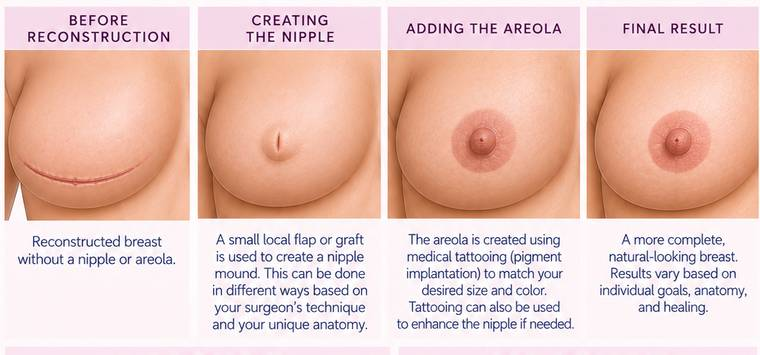
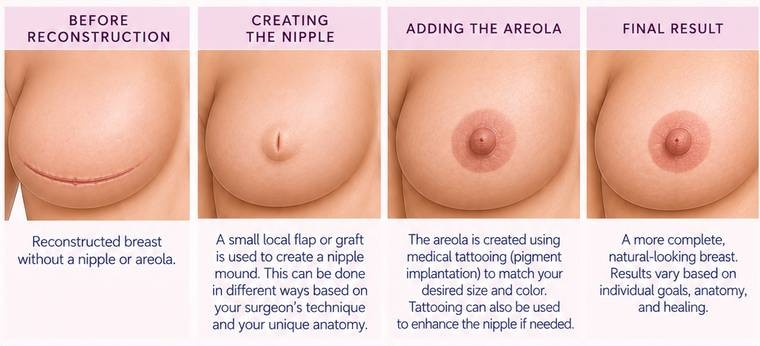
Trim a clipped header bar off the bottom of the nipple-areola diagram
The crop stopped nine rows into the next row of panels, so the image
ended on a sliver of pink header bar with nothing above it. Rows 346
onward were 97-98% bar colour; the picture itself ends at 345.

Found by the in-image audit rather than by looking, which is the point
of measuring: at display size the strip is about five pixels and reads
as a slightly odd edge rather than as a mistake.

diff --git a/index.html b/index.html
@@ -2265,7 +2265,7 @@
           <button type="button" class="recon-back" data-panel="panel-recon">&lsaquo; All options</button>
           <h2>Nipple-Areola Reconstruction</h2>
           <div class="recon-art">
-            <img src="images/recon-nippleareola.jpg" alt="Four stages: the reconstructed breast without a nipple, the nipple mound created, the areola added by tattooing, and the final result" loading="lazy" width="760" height="355" />
+            <img src="images/recon-nippleareola.jpg" alt="Four stages: the reconstructed breast without a nipple, the nipple mound created, the areola added by tattooing, and the final result" loading="lazy" width="760" height="346" />
           </div>
           <p class="recon-body">Usually the last step, once the chest has healed and the breast mound has settled into position. A nipple can be built surgically, by lifting and shaping small pieces of skin from the reconstructed breast itself; the areola is then added a few months later, most often with tattoo ink, occasionally with a skin graft taken from the groin or abdomen. Or the whole thing can be done by a tattoo artist who specialises in 3-D nipple tattooing — flat to the touch, but convincingly real to look at. Worth knowing too: for some people a nipple-sparing mastectomy, which keeps the original nipple and areola, is possible. Whether it is depends on the size and position of the cancer and on the shape of the breast.</p>
           <p class="recon-src">Sources: <a href="https://www.cancer.gov/types/breast/treatment/surgery/breast-reconstruction" target="_blank" rel="noopener">National Cancer Institute</a>; <a href="https://www.cancer.org/cancer/types/breast-cancer/reconstruction-surgery/breast-reconstruction-options/reconstructing-the-nipple-and-areola-after-breast-surgery.html" target="_blank" rel="noopener">American Cancer Society</a>.</p>
